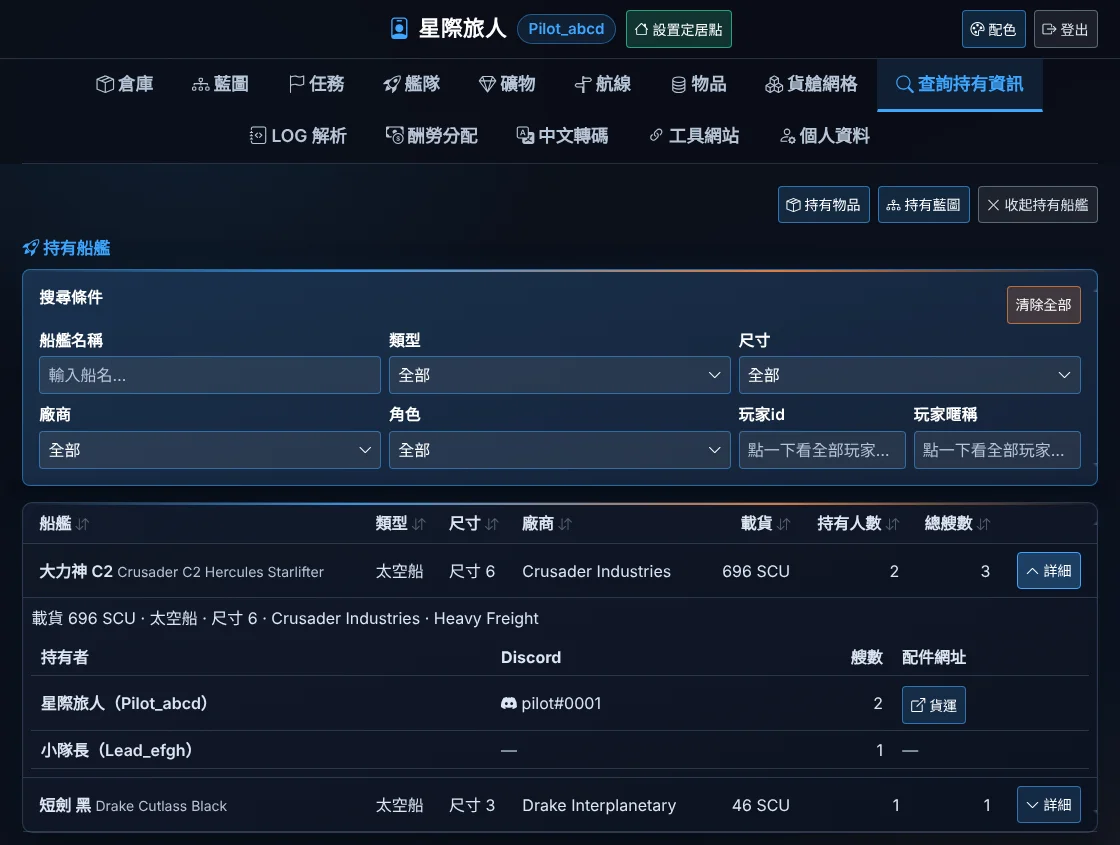
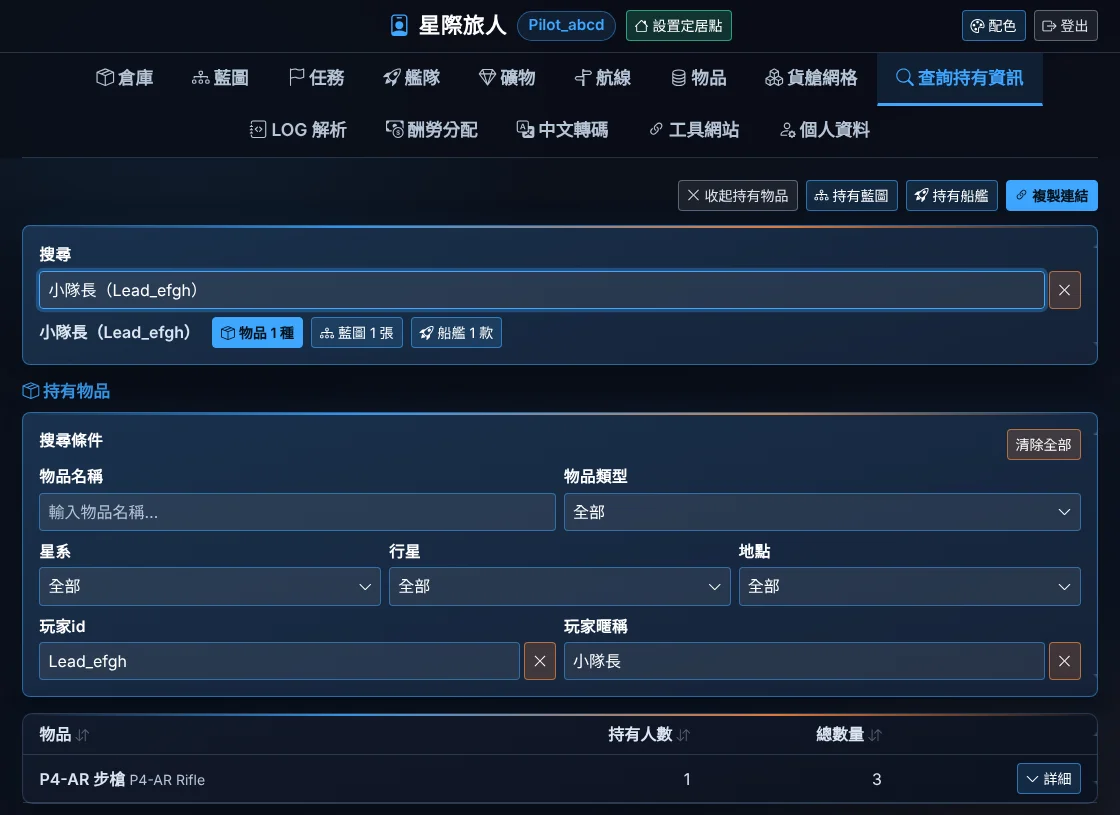
說明文件更新查詢持有資訊的搜尋框與分享連結

diff --git a/frontend/src/views/PlayerHelpView.vue b/frontend/src/views/PlayerHelpView.vue
@@ -218,9 +218,12 @@ const sections = [
   {
     id: 'search', title: '查詢持有資訊', icon: 'bi bi-search',
     blocks: [
-      { figs: [{ src: 'search', alt: '持有船艦：展開看誰有' }], items: [
+      { figs: [{ src: 'search', alt: '搜尋玩家：列出他有幾種物品、藍圖、船艦' }], items: [
         '查公會裡誰有某個物品（數量、地點）、誰登記了某張藍圖、誰有哪款船。',
+        '最上面的「搜尋」打物品、藍圖、船艦名稱或玩家都可以：選了東西就打開那一區並帶好條件；選了玩家會列出他有幾種物品、幾張藍圖、幾款船，按了切過去看。',
+        '三區不選條件也會列出全部；名稱欄直接打字就會篩，不一定要從清單選。',
         '結果是列表，點表頭排序；按「詳細」看持有者（物品會列出放在哪裡、船會列出配件網址）。',
+        '查詢條件會記在網址上，按「複製連結」貼給隊友，對方打開就是同一個查詢。',
       ] },
     ],
   },

diff --git a/README.md b/README.md
@@ -136,6 +136,7 @@ docker compose exec api git log --oneline -1 2>/dev/null || docker compose exec 
 | 物品資料 | http://localhost:8090/player/me?tab=items&sub=data | 玩家頁「物品 › 物品資料」：物品主檔（唯讀），名稱、類型、只看買得到、只看可拆解、拆解材料篩選；點整列看詳細數值與購買地點。只列「玩家頁面顯示」的物品（見[玩家頁面顯示](#玩家頁面顯示自動隱藏)）。舊網址 `?tab=warehouse&sub=items`、`?tab=itemdata` 會導過來 |
 | 航線規劃 | http://localhost:8090/player/me?tab=route | 量子航行路線（`src/models/nav.py`、`components/RoutePlanner.vue`）：選船與量子引擎、起始油量（百分比或油量）、起點、途經站點、終點；可「依星系填入」站點（太空站／主城／地面站，地面站要先選行星），每個站點有開關決定是否加入規劃（最多 40 個，11 個以內精確排序，更多用近似排序），並顯示起點到該站的直線距離；可設「定期回指定站」（每 N 站回指定站一次，排序時一併考慮）。結果有最快／最省油／最順路三種方案，航段表列出經過的 OM 點、跳躍點、距離、時間、油量、補燃料提示、站點特性（特大機庫、外部貨運、對接口）；可切 3D 星圖。飛行中可標記已去過、調整順序、中途插入站點重新規劃；結果預設用跳出視窗顯示（可切回接在表單下面）；跑完在結果底部的「完成」列選「結束」或「終點設為起點」（終點變下一趟起點、終點重設）。API：`/starmap/nav/places`、`/ships`、`/route`、`/sequence`、`/replan` |
 | 合約分配 | http://localhost:8090/player/me?tab=route&sub=contracts | 多份運輸合約（最多 10 份）× 多個小隊（最多 6 隊）自動分配（`src/models/haul.py`、`components/ContractPlanner.vue`）：每份合約多項貨物、每項可多個取貨點／送貨點（各最多 30 個，可依星系填入站點；可設共同送貨點讓全部貨物共用，各項只填各點 SCU；取貨 SCU 可留空：不猜數量，由同一隊一趟去完這些取貨點再送）；四種方案：最快完成／總時間最少／總油量最少，以及「站點平均」（每個站點只給一隊、有貨物相連的站點綁一組，各隊航程距離盡量平均；站點太集中分不開時依序放寬成取貨站共用 → 送貨站共用 → 每趟各自分）。同名貨物分屬不同合約會提醒分開繳交，外掛貨櫃船只派到有外部貨運的站。API：`POST /starmap/nav/contracts`、`/starmap/nav/commodities` |
+| 查詢持有資訊 | http://localhost:8090/player/me?tab=search | 查公會裡誰有哪個物品／藍圖／船艦（`/inventory/search`、`/blueprint/holders`、`/player/fleet/holders`）。最上面一個搜尋框打物品、藍圖、船艦名稱或玩家：選東西就帶進對應區塊，選玩家就列出他三類各有幾筆。三區不選條件也列出全部，名稱欄打字就篩（中英文）；條件記在網址（`sec`、`i_*`／`b_*`／`f_*`），可「複製連結」分享 |
 | 貨艙網格 | http://localhost:8090/player/me?tab=cargo | 選船、填 1～32 SCU 各種貨櫃數量，擺進船的貨物網格並用 3D 檢視（`components/CargoLoader.vue`、`CargoView3D.vue`、`utils/cargoPack.js`）；「自動裝滿」算出最多裝幾個。航線選船也會顯示 8／16／32 SCU 貨櫃最多幾個。資料是「貨物網格」同步項目（sc-cargo.space）的 `cargo_grid_master`，API `GET /starmap/nav/cargo-grids` |
 | 藍圖材料試算 | http://localhost:8090/player/me?tab=blueprints（我的藍圖 › 每張的「材料」展開） | 輸入要做幾個，列出每種材料總共需要多少；藍圖與礦物材料附 sc-datahub.com 對應頁面的按鈕（後台沒有這個功能） |
 | 艦隊 JSON 匯入 | http://localhost:8090/player/me?tab=fleet（「JSON 匯入」按鈕） | 匯入 [HangarXPLOR](https://chromewebstore.google.com/detail/star-citizen-hangar-xplor/bhkgemjdepodofcnmekdobmmbifemhkc)（RSI 機庫頁的 Chrome 擴充功能，匯入區有「安裝 HangarXPLOR」按鈕）匯出的 `shiplist.json`：先預覽再確認；數量取現有與船單較大值（重複匯入不會變多），船的自訂名稱填進每艘的區別名稱。規則見 `src/models/fleet_import.py` |
